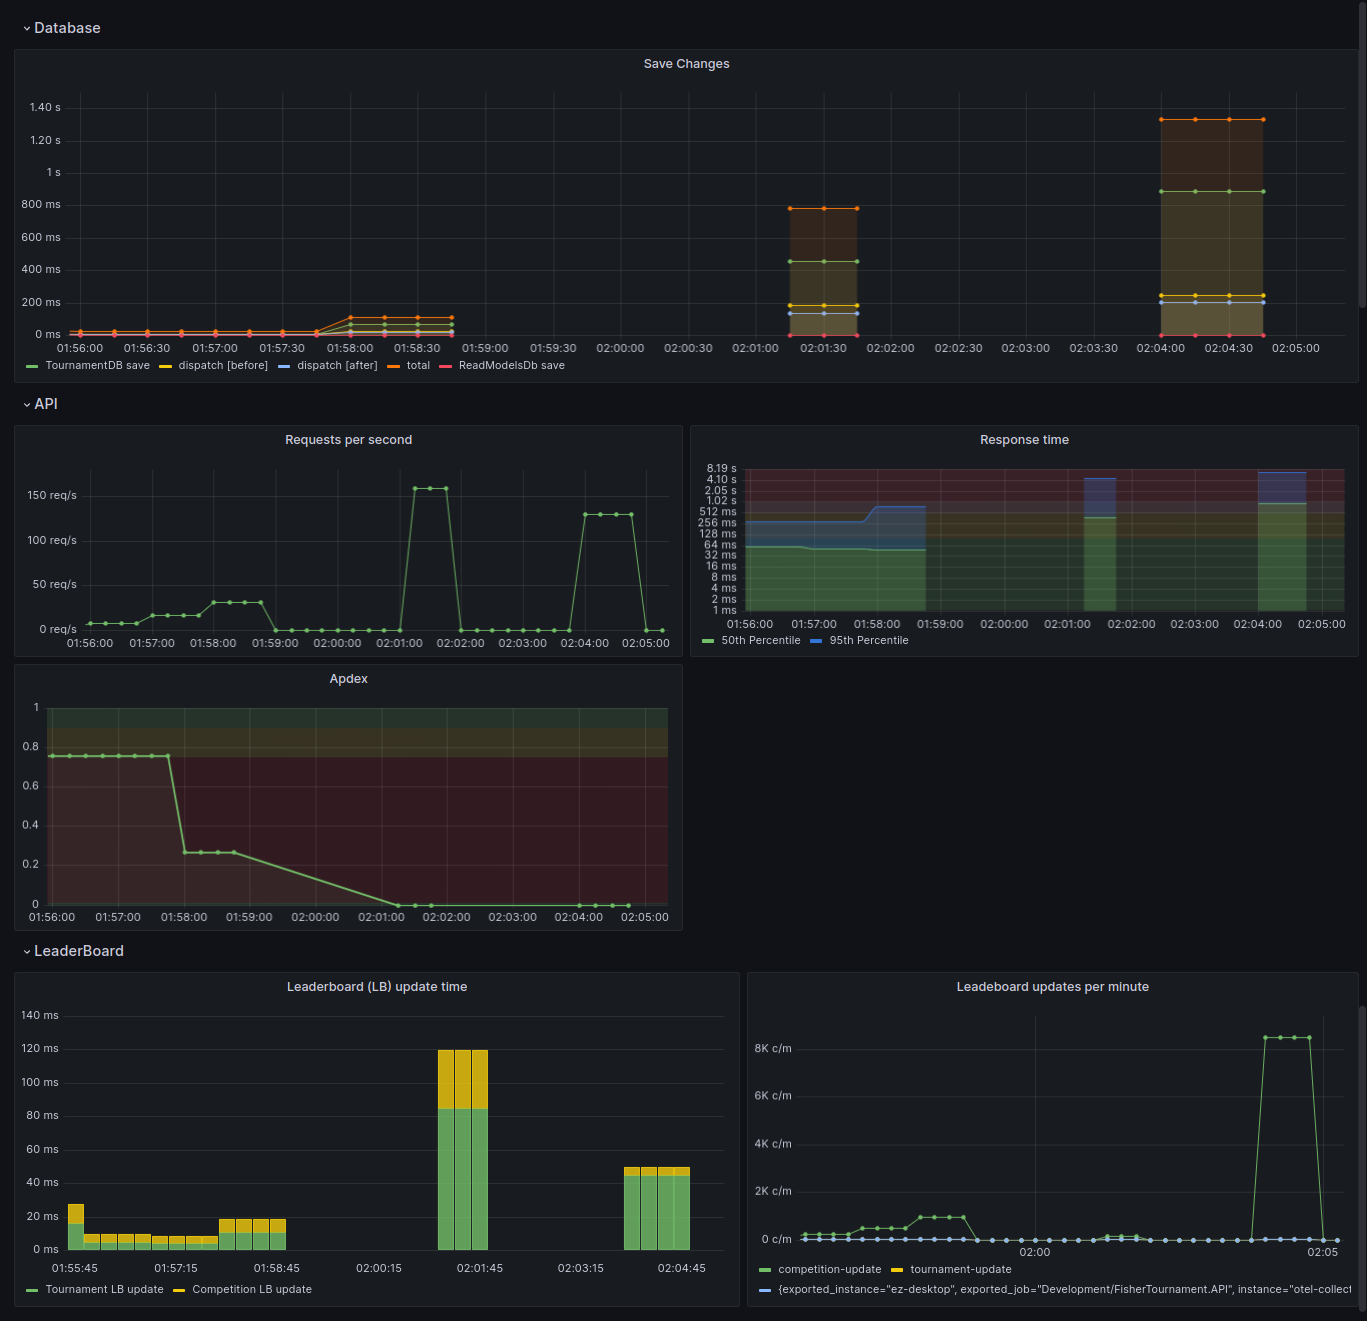
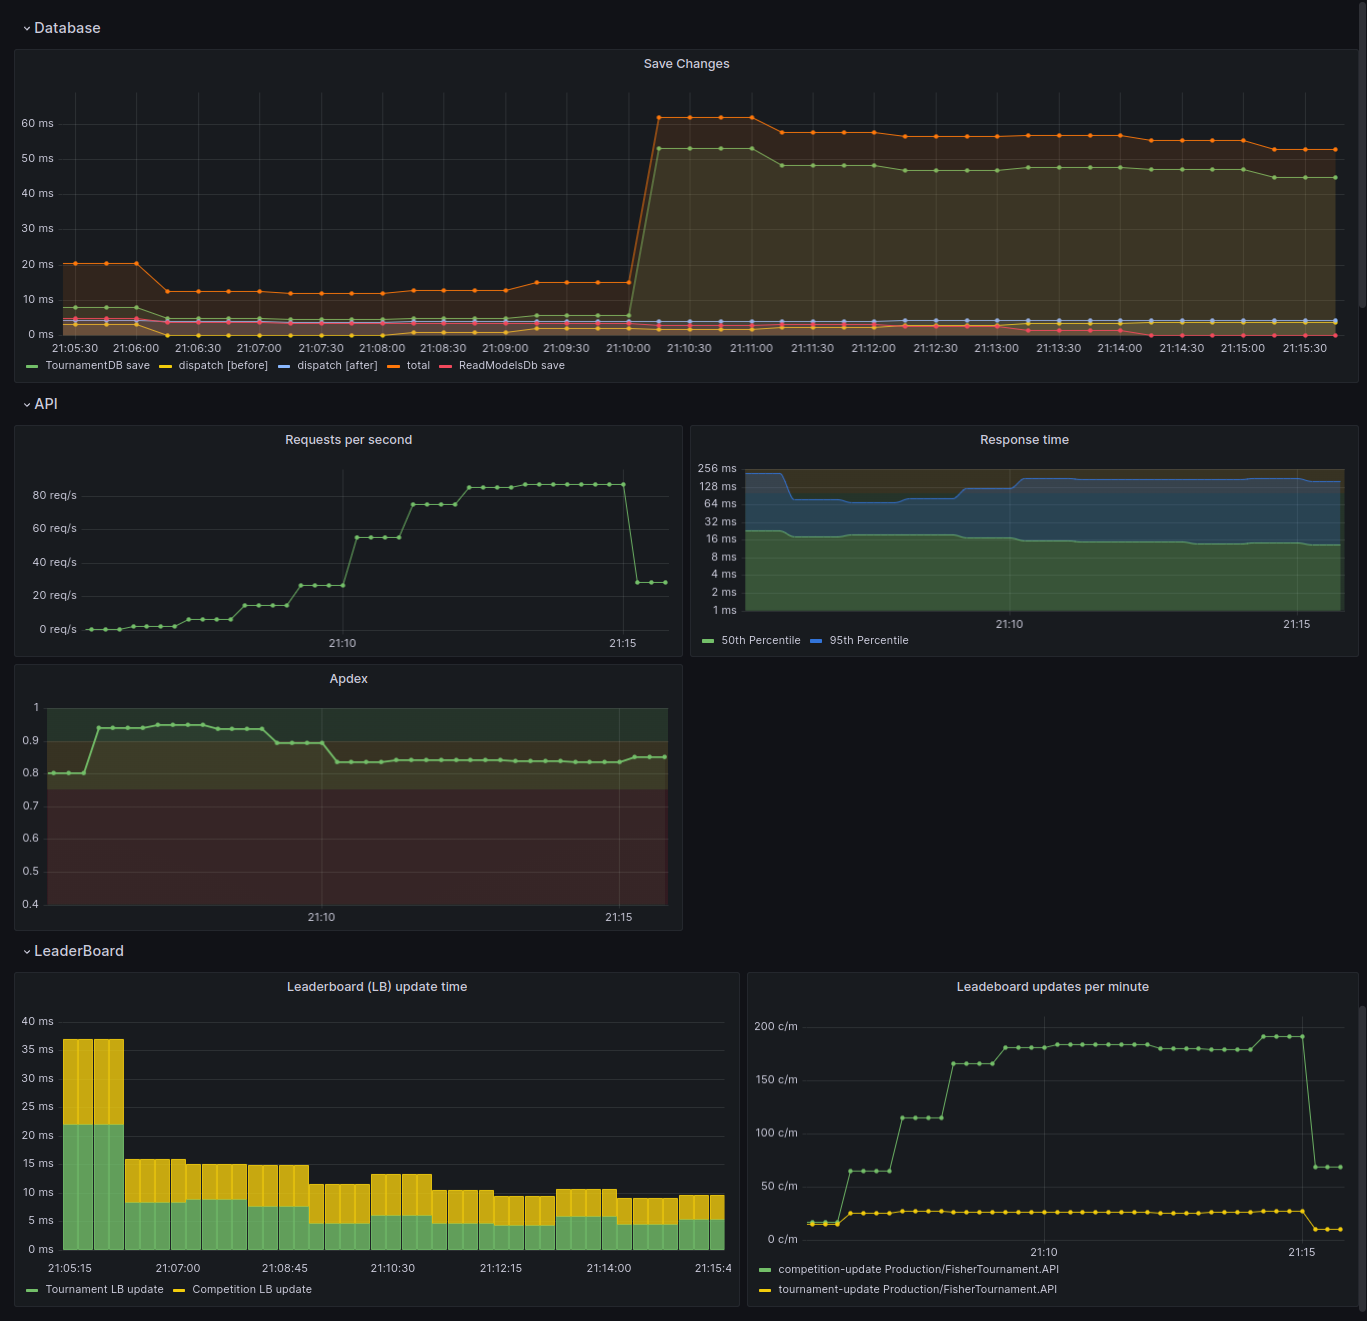
Fixed bug on scheduler that caused 8k updates/min

diff --git a/FisherTournament.Infrastracture/LeaderBoard/LeaderBoardUpdateScheduler.cs b/FisherTournament.Infrastracture/LeaderBoard/LeaderBoardUpdateScheduler.cs
@@ -78,15 +78,24 @@ public class LeaderBoardUpdateScheduler : ILeaderBoardUpdateScheduler
         {
             if (job.UpdateType == UpdateType.CompetitionsFromList)
             {
-                job.CompetitionsToUpdate.Add(competitionId);
+                if (!job.CompetitionsToUpdate.Contains(competitionId))
+                {
+                    job.CompetitionsToUpdate.Add(competitionId);
 
-                _logger.LogDebug("Scheduling leaderboard update for job {Job} to also update competition {CompetitionId} in {} seconds. Total competitions to update: {}",
-                                       job, competitionId, MaxUpdateInterval.TotalSeconds, job.CompetitionsToUpdate.Count);
+                    _logger.LogInformation("Scheduling leaderboard update for job {Job} to also update competition {CompetitionId} in {} seconds. Total competitions to update: {}",
+                                           job, competitionId, MaxUpdateInterval.TotalSeconds, job.CompetitionsToUpdate.Count);
+                }
+                else
+                {
+                    // else do nothing, we are already updating this competition.
+                    _logger.LogInformation("Scheduler did not modify job {Job} to also update competition {CompetitionId} because we are already updating it.",
+                                           job, competitionId);
+                }
             }
             else
             {
                 // else do nothing, we are already updating all competitions.
-                _logger.LogDebug("Scheduler did not modify job {Job} to also update competition {CompetitionId} because we are already updating all competitions.",
+                _logger.LogInformation("Scheduler did not modify job {Job} to also update competition {CompetitionId} because we are already updating all competitions.",
                                        job, competitionId);
             }
         }
@@ -95,7 +104,7 @@ public class LeaderBoardUpdateScheduler : ILeaderBoardUpdateScheduler
             if (_lastUpdate.TryGetValue((tournamentId, categoryId), out var lastUpdate)
                 && lastUpdate >= DateTimeOffset.UtcNow.Subtract(MaxUpdateInterval)) // last update was less than 5s ago
             {
-                _logger.LogDebug("Scheduling leaderboard update for tournament {TournamentId}, category {CategoryId} to update competition {CompetitionId} in {} seconds",
+                _logger.LogInformation("Scheduling leaderboard update for tournament {TournamentId}, category {CategoryId} to update competition {CompetitionId} in {} seconds",
                                        tournamentId, categoryId, competitionId, MaxUpdateInterval.TotalSeconds);
 
                 _jobs.TryAdd((tournamentId, categoryId),
@@ -106,7 +115,7 @@ public class LeaderBoardUpdateScheduler : ILeaderBoardUpdateScheduler
             }
             else
             {
-                _logger.LogDebug("Scheduling leaderboard update for tournament {TournamentId}, category {CategoryId} to update competition {CompetitionId} NOW",
+                _logger.LogInformation("Scheduling leaderboard update for tournament {TournamentId}, category {CategoryId} to update competition {CompetitionId} NOW",
                                        tournamentId, categoryId, competitionId);
 
                 _jobs.TryAdd((tournamentId, categoryId),
@@ -131,7 +140,7 @@ public class LeaderBoardUpdateScheduler : ILeaderBoardUpdateScheduler
 
         if (_jobs.TryGetValue((tournamentId, categoryId), out var job))
         {
-            _logger.LogDebug("Updated job for tournament {TournamentId}, category {CategoryId} to update all competitions",
+            _logger.LogInformation("Updated job for tournament {TournamentId}, category {CategoryId} to update all competitions",
                                    tournamentId, categoryId);
             job.SetUpdateType(UpdateType.AllCompetitions);
         }
@@ -140,7 +149,7 @@ public class LeaderBoardUpdateScheduler : ILeaderBoardUpdateScheduler
             if (_lastUpdate.TryGetValue((tournamentId, categoryId), out var lastUpdate)
                 && lastUpdate >= DateTimeOffset.UtcNow.Subtract(MaxUpdateInterval)) // last update was less than 5s ago
             {
-                _logger.LogDebug("Scheduling leaderboard update for tournament {TournamentId}, category {CategoryId} to update all competitions in {} seconds",
+                _logger.LogInformation("Scheduling leaderboard update for tournament {TournamentId}, category {CategoryId} to update all competitions in {} seconds",
                                        tournamentId, categoryId, MaxUpdateInterval.TotalSeconds);
 
                 _jobs.TryAdd((tournamentId, categoryId),
@@ -151,7 +160,7 @@ public class LeaderBoardUpdateScheduler : ILeaderBoardUpdateScheduler
             }
             else
             {
-                _logger.LogDebug("Scheduling leaderboard update for tournament {TournamentId}, category {CategoryId} to update all competitions NOW",
+                _logger.LogInformation("Scheduling leaderboard update for tournament {TournamentId}, category {CategoryId} to update all competitions NOW",
                                        tournamentId, categoryId);
 
                 _jobs.TryAdd((tournamentId, categoryId),
@@ -167,7 +176,7 @@ public class LeaderBoardUpdateScheduler : ILeaderBoardUpdateScheduler
 
     public Job? GetNextJob()
     {
-        _logger.LogDebug("Getting next job");
+        _logger.LogInformation("Getting next job");
 
         _mutex.WaitOne();
 
@@ -179,7 +188,14 @@ public class LeaderBoardUpdateScheduler : ILeaderBoardUpdateScheduler
             _jobs.Remove((job.TournamentId, job.CategoryId), out _);
 
             _lastUpdate[(job.TournamentId, job.CategoryId)] = job.ExecuteAt;
+
+            _logger.LogInformation("Next job is {Job}", job);
         }
+        else
+        {
+            _logger.LogInformation("No jobs ready");
+        }
+
 
         _mutex.ReleaseMutex();
 

diff --git a/FisherTournament.Application/LeaderBoard/LeaderBoardUpdater.cs b/FisherTournament.Application/LeaderBoard/LeaderBoardUpdater.cs
@@ -144,7 +144,7 @@ public class LeaderBoardUpdater : ILeaderBoardUpdater
         using var _ = ApplicationMetrics.LeaderboardMetrics.LeaderboardUpdate.Time(new Tag("function", "tournament-update"));
         using var ___ = _instrumentation.ActivitySource.StartActivity("UpdateTournamentLeaderBoard");
 
-        _logger.LogInformation($"Updating leaderboard TournamentId: {tournamentId} - CategoryId: {categoryId}");
+        _logger.LogInformation("Updating leaderboard TournamentId: {TournamentId} - CategoryId: {CategoryId}", tournamentId, categoryId);
 
         var tournamentCompetitionsId = await _context.Competitions
             .Where(c => c.TournamentId == tournamentId)

diff --git a/Docs/optimizing_leaderboard.md b/Docs/optimizing_leaderboard.md
@@ -129,12 +129,81 @@ Now the request look way cleaner:
 
 # Comparing stress test
 
+## K6 stress test
+The test consist of 10 minutes with an ramping arrival rate up to 40 concurrent users. Both test were executed with the same database checkpoint.
+
+**Before**
+```
+     ✓ status 200
+
+     checks.........................: 100.00% ✓ 13017     ✗ 0    
+     data_received..................: 13 MB   21 kB/s
+     data_sent......................: 6.6 MB  11 kB/s
+     http_req_blocked...............: avg=33.77µs  min=1.23µs med=4.56µs  max=22.37ms p(90)=12.36µs  p(95)=22.33µs 
+     http_req_connecting............: avg=19.5µs   min=0s     med=0s      max=22.14ms p(90)=0s       p(95)=0s      
+     http_req_duration..............: avg=51.15ms  min=1.92ms med=19.64ms max=2.15s   p(90)=139.88ms p(95)=213.6ms 
+       { expected_response:true }...: avg=51.15ms  min=1.92ms med=19.64ms max=2.15s   p(90)=139.88ms p(95)=213.6ms 
+     http_req_failed................: 0.00%   ✓ 0         ✗ 26037
+     http_req_receiving.............: avg=126.65µs min=9.72µs med=55.82µs max=46.57ms p(90)=158.44µs p(95)=230.22µs
+     http_req_sending...............: avg=36.01µs  min=5.05µs med=19.44µs max=10.48ms p(90)=65.95µs  p(95)=82.74µs 
+     http_req_tls_handshaking.......: avg=0s       min=0s     med=0s      max=0s      p(90)=0s       p(95)=0s      
+     http_req_waiting...............: avg=50.99ms  min=1.85ms med=19.42ms max=2.15s   p(90)=139.76ms p(95)=213.47ms
+     http_reqs......................: 26037   43.069922/s
+     iteration_duration.............: avg=89.93ms  min=8.21ms med=60.78ms max=2.15s   p(90)=210.15ms p(95)=275.8ms 
+     iterations.....................: 13017   21.53248/s
+     vus............................: 500     min=500     max=500
+     vus_max........................: 500     min=500     max=500
+
+
+running (10m04.5s), 000/500 VUs, 13017 complete and 3 interrupted iterations
+stress ✗ [================>---------------------] 003/500 VUs  10m04.5s/22m20s  40.00 iters/s
+ERRO[0605] test run was aborted because k6 received a 'interrupt' signal 
+```
+
+**After**
+```
+     ✓ status 200
+
+     checks.........................: 100.00% ✓ 12942     ✗ 0    
+     data_received..................: 13 MB   21 kB/s
+     data_sent......................: 6.5 MB  11 kB/s
+     http_req_blocked...............: avg=36.89µs  min=1.2µs  med=4.68µs  max=20.97ms p(90)=12.54µs  p(95)=22.82µs 
+     http_req_connecting............: avg=21.89µs  min=0s     med=0s      max=20.76ms p(90)=0s       p(95)=0s      
+     http_req_duration..............: avg=39.39ms  min=1.98ms med=18.79ms max=1.12s   p(90)=95.04ms  p(95)=147.67ms
+       { expected_response:true }...: avg=39.39ms  min=1.98ms med=18.79ms max=1.12s   p(90)=95.04ms  p(95)=147.67ms
+     http_req_failed................: 0.00%   ✓ 0         ✗ 25886
+     http_req_receiving.............: avg=116.23µs min=9.5µs  med=55µs    max=43.87ms p(90)=157.37µs p(95)=211.55µs
+     http_req_sending...............: avg=37.01µs  min=5.13µs med=19.97µs max=8.99ms  p(90)=66.72µs  p(95)=84.55µs 
+     http_req_tls_handshaking.......: avg=0s       min=0s     med=0s      max=0s      p(90)=0s       p(95)=0s      
+     http_req_waiting...............: avg=39.24ms  min=1.9ms  med=18.59ms max=1.12s   p(90)=94.92ms  p(95)=147.62ms
+     http_reqs......................: 25886   42.955237/s
+     iteration_duration.............: avg=65.08ms  min=5.53ms med=48.03ms max=1.12s   p(90)=144.18ms p(95)=193.62ms
+     iterations.....................: 12942   21.475959/s
+     vus............................: 500     min=500     max=500
+     vus_max........................: 500     min=500     max=500
+
+
+running (10m02.6s), 000/500 VUs, 12942 complete and 2 interrupted iterations
+stress ✗ [================>---------------------] 002/500 VUs  10m02.6s/22m20s  40.00 iters/s
+ERRO[0604] test run was aborted because k6 received a 'interrupt' signal 
+```
+
+The average response time after the update was 70% better.
+
 **Before**
 ![](Images/LBUpdateBefore.png)
 
 **After**
 ![](Images/LBUpdateAfter.png)
 
-You might think that the results were bad, but the important measure here is the number of requests per second, in which it did x2.5 better. The system is now capable of handling 2.5 times more updates than before, resulting in an increase in the number of requests for leaderboard updates. As a result, the databases are becoming overwhelmed, which is causing a slowdown in response times. This can be observed by monitoring the number of leaderboard updates per minute.
+As you can see, in the not optimized version, the server has to process more than 2000 per minute of leader board updates. In the optimized version, the server only has to process up to 200 per minute of leader board updates. Also, notice how it optimizes the tournament leader board update when it collected multiple competitions in the same tournament.
 
-I can optimize it more and more but I am happy with the results. I will continue to improve the system in the future, I think at this point a microservice for the leaderboard would be a good idea to reduce the complexity of the core module.
+> NOTE: In reality the tournament cannot have multiple competitions active at the same time, but this is just an demo.
+
+I think at this point a microservice for the leaderboard would be a good idea to reduce the complexity of the core module.
+
+**Conclusion**
+- x10 less leader board updates per minute
+- managed to maintain leaderboard consistency withing a reasonable time frame
+- Apdex score increased
+- now the server can handle more concurrent users (new limit to test)
